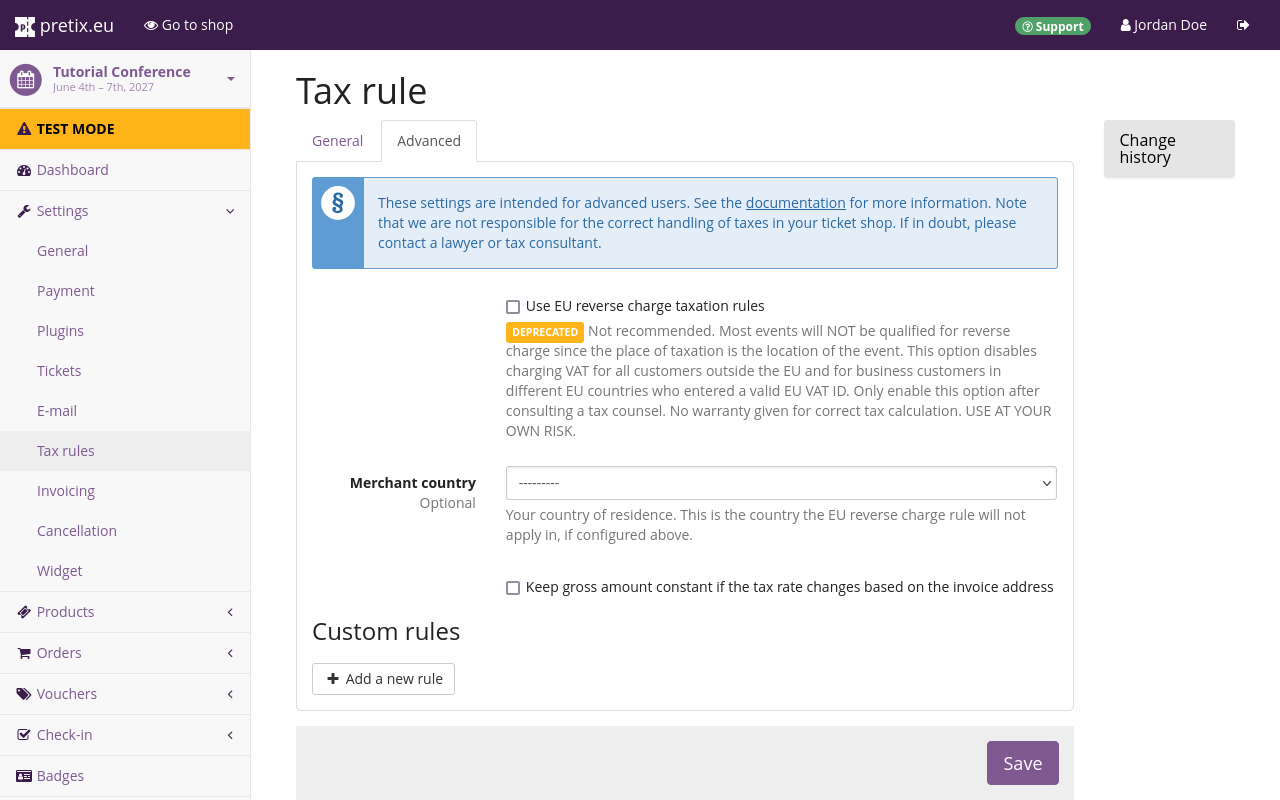
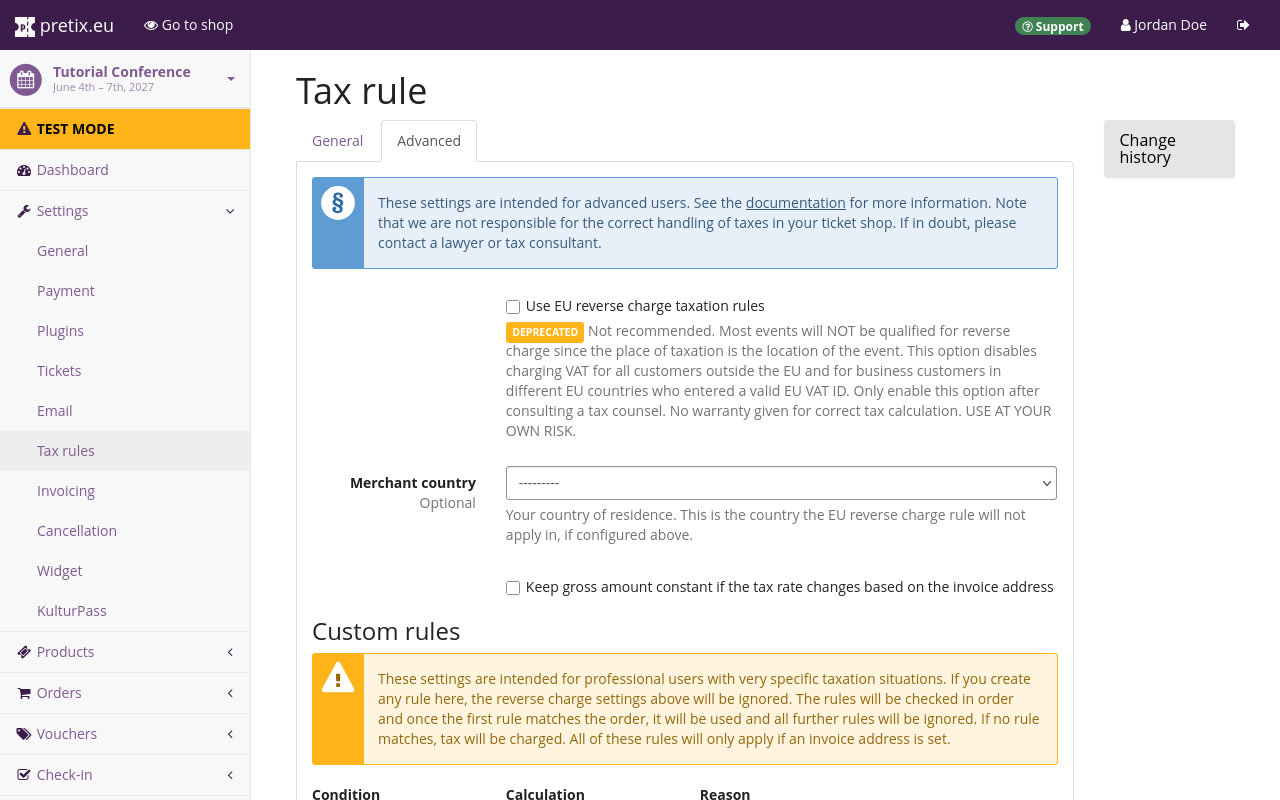
Update custom tax (#117)
* Update screenshot and article to reflect recent UI changes

* Update screenshot to reflect UI changes

* Correct information about reverse charge and tax rate field

* Improve article with suggestions from Vale

* Implement comments

diff --git a/docs/guides/taxes.md b/docs/guides/taxes.md
@@ -1,14 +1,17 @@
 # Taxes
 
-In most legislations, you are required to pay taxes for sales you make using pretix. 
+Most legislations require you to pay taxes on any sales you make using pretix. 
 pretix gives you the tools you need to calculate the appropriate tax for each sale. 
-You are prompted to create one simple tax rule during event creation, which may already be enough for the most simple use cases. 
+
+Taxes are configured on the event level. 
+During event creation, pretix prompts you to create one simple tax rule. 
+This may already be enough for the most straightforward use cases. 
 This article tells you how to create additional tax rules, how to configure complex custom tax rules, and how to assign them to products. 
 
 This article does **not** tell you what taxes are appropriate for your individual situation. 
 This depends on your local legislation, the type of your business, and a number of other factors. 
-The pretix documentation does not contain any information on the appropriate tax rates for your situation. 
-Please speak to a professional tax consultant before setting tax rates in your shop. 
+The pretix documentation does **not** contain any information on the appropriate tax rates for your situation. 
+Speak to a professional tax consultant before setting tax rates in your shop. 
 
 {% include "warning-tax-rules.md" %}
 
@@ -20,40 +23,45 @@ Taxes are handled on the event level, so you have to create an event first.
 
 pretix allows you to set up a tax rule for each tax rate that is relevant for your situation.
 Then, you assign that tax rule to each individual product. 
-If you are selling products with a 0% tax rate (such as [gift cards](../guides/gift-cards.md)), you still need to create a 0% tax rule first. 
+
+Tax rules are configured for each event individually. 
+There is no default set of tax rules. 
+You can only assign a tax rule to a product after you have created the tax rule. 
+This is true even for a tax rate of 0%. 
+If you are selling products with a 0% tax rate (such as [gift cards](../guides/gift-cards.md)), you still need to create a 0% tax rule first.
 
 When it comes to tax rules for free products, the only material difference is the tax rate printed on the invoice. 
 Create and assign the tax rule that you want to see on the invoice. 
-By default, pretix will not create invoices for orders that only contain free products. 
+pretix does not create invoices for orders that only contain free products. 
 
 ### Creating tax rules 
 
 In order to create a new tax rule, navigate to :navpath:Your event → :fa3-wrench: Settings → Tax rules:. 
-This page displays a list of all tax rules that have been created for the event. 
+This page displays a list of all tax rules that you have created for the event. 
 To create a new tax rule, click the :btn-icon:fa3-plus: Create a new tax rule: button. 
 
 ![Tax rule dialog. The 'General' tab is open, displaying options for official and internal name, tax rate, and whether to include the tax in the product price.](../assets/screens/tax/edit-rule.png "Tax rule advanced options" )
 
 This takes you to a dialog for creating the new tax rule. 
-On the "General" tab, choose an "Official name" that will be displayed to customers in your shop. 
+On the "General" tab, choose an "Official name" that your shop will display to customers. 
 Provide a translation for each language you are using. 
 
-Optionally, you may choose an "Internal name" that will only be displayed in the backend. 
+Optionally, you can choose an "Internal name" that the pretix backend will display to you and your team members. 
 
 Under "Tax rate", choose a rate in percent. 
-For example, if your products are sold with the regular value-added tax rate in Germany, set the "Tax rate" to 19.00%. 
+For example, if you sell products with the regular value-added tax rate in Germany, set the "Tax rate" to 19%. 
 
-The box next to "The configured product prices include the tax amount" determines whether the price of a product with this tax rule is handled as its net price (before tax) or its gross price (after tax). 
+The box next to "The configured product prices include the tax amount" determines whether to handle the price of a product with this tax rule as its net price (before tax) or its gross price (after tax). 
 
-By default, this box is checked, so all product prices with this tax rule are handled as gross prices (tax is included in the price). 
-This means that a product with a listed price of €10.00 and a tax rate of 19.00% has a net price of €8.40, €1.60 worth of value-added tax, and a total gross price of €10.00. 
+By default, this setting is active, so pretix handles all product prices with this tax rule as gross prices (the price includes tax). 
+This means that a product with a listed price of €10.00 and a tax rate of 19% has a net price of €8.40, €1.60 worth of value-added tax, and a total gross price of €10.00. 
 
-If you uncheck this box, all product prices with this tax rule are handled as net prices (tax is added on top of the listed price). 
-A product with a price of €10.00 and a 19.00% tax rule will have €1.90 worth of taxes added on top of the net price, leading to a gross price of €11.90. 
+If you uncheck the box, pretix handles all product prices with this tax rule as net prices (pretix adds tax on top of the listed price). 
+A product with a price of €10.00 and a 19% tax rule will have €1.90 worth of taxes added on top of the net price, leading to a gross price of €11.90. 
 This setting applies to all products that use this specific tax rule. 
 It does **not** apply to all products in your shop. 
 
-Click the :btn:Save: button once you are happy with your choices. 
+Click the :btn:Save: button to confirm your choices. 
 
 ### Custom tax rules
 
@@ -61,45 +69,56 @@ Click the :btn:Save: button once you are happy with your choices.
 
 !!! Note 
     Using custom tax rules is mutually exclusive with the EU reverse charge option. 
-    If you have defined one or more custom tax rules, then the EU reverse charge taxation rule will not apply, even if the box next to "Use EU reverse charge taxation rules" is checked. 
+    If you have defined one or more custom tax rules, then the EU reverse charge taxation rule will **not** apply, even if the box next to "Use EU reverse charge taxation rules" is checked. 
 
-pretix allows you to set "custom rules" if you have special requirements for the conditions in which VAT will or will not be charged. 
+pretix allows you to set "custom rules" if you have special requirements for the conditions in which to charge or not to charge value-added tax (VAT) on top of your sales. 
 These "custom rules" are subordinate to a tax rule and optional. 
 
 If you want to use custom rules specific to businesses with VAT IDs, you have to ask your customers for their VAT ID. 
 Navigate to :navpath:Your event → :fa3-wrench: Settings → Invoicing:. 
-Switch to the :btn:Address form: tab and make sure that the boxes next to "Ask for invoice address" and "Ask for VAT ID" are checked. 
+Switch to the :btn:Address form: tab and ensure that the boxes next to "Ask for invoice address" and "Ask for VAT ID" are checked. 
 Click the :btn:Save: button to confirm. 
 
 In order to set custom tax rules, navigate to :navpath:Your event → :fa3-wrench: Settings → Tax rules:. 
 Click the tax rule for which you want to set custom rules, switch to the :btn:Advanced: tab and click the :btn-icon:fa3-plus: Add a new rule: button. 
 
-In the first dropdown menu, select the country or territory where the custom rule will apply or select "Any country". 
+Under "Condition", in the first dropdown menu, select the country or territory where the custom rule will apply or select "Any country". 
 In the second menu, select the type of customer (individual, business, or business with valid VAT ID) or select "Any customer". 
 
-In the third dropdown menu, select the action to be taken under the specified conditions (country and customer). 
-You may select "Charge VAT" and then specify a "Deviating tax rate" in the input field below. 
-You may also select a different option and leave the field empty. 
+Under "Calculation", choose how pretix should calculate tax under the specified conditions (country and customer). 
+If you want to charge a tax rate specific to the conditions you defined, select "Charge VAT" and enter the tax rate in the input field below. 
+If you want to implement a reverse charge rule for the condition, select "Reverse charge" and leave the field below empty. 
+
+The other options allow you to charge **no** tax, to require manual approval, or to forbid sales altogether for the condition you defined. 
+You may leave the input field below empty in those cases. 
+
+Under "Reason", you can select a legal reason for the tax rule you put into place. 
+If the drop-down menu does **not** offer your specific reason, select a more general option. 
+You can use the "Text on invoice" fields to add an explanation for the taxes charged to your customers' invoices. 
 
 When a customer places an order, pretix will check the custom rules from top to bottom. 
-The first rule matching the order will be used to decide if and how VAT will be charged. 
+The first rule matching the order decides if and how pretix will charge VAT. 
 You can move the rules up or down the priority list using the arrow buttons :btn-icon:fa3-arrow-up:: and :btn-icon:fa3-arrow-down::. 
 
 ![Tax rule dialog. The 'Advanced' tab is open, displaying four custom rules, as described in the paragraph below.](../assets/screens/tax/custom-rules.png "Example for custom rules" )
 
-For illustrative purposes, let us assume an event hosted by a company in Germany which is eligible for EU reverse charge. 
-Such a company might first create a rule for "Germany", applying to "Any customer" the action "Charge VAT". 
-It might then create a rule for "European Union", applying to "Business with valid VAT ID" the action "Reverse charge". 
+For illustrative purposes, assume that a company in Germany is hosting an event which is eligible for EU reverse charge. 
+Such a company might first create a rule for "Germany", applying to "Any customer" the calculation "Charge VAT". 
+The tax rate would be 19.00% and the reason would be "Default tax code". 
+The company might then create a rule for "European Union", applying to "Business with valid VAT ID" the calculation "Reverse charge" with the tax rate field left empty and the reason set to "Reverse charge". 
 
-It might then create a rule for Austria, applying to "Any customer" the action "Charge VAT" with the deviating tax rate set to the VAT rate of the country in question. 
+It might then create a rule for Austria, applying to "Any customer" the calculation "Charge VAT" with the tax rate set to the VAT rate of the country in question. 
 It might then create the same rule for every single member state in the EU from Belgium to Sweden, always setting the appropriate deviating tax rate. 
-Finally, the company might create a rule for "Any country", applying to "Any customer" the action "Charge VAT". 
+Finally, the company might create a rule for "Any country", applying to "Any customer" the calculation "Charge VAT". 
 
 In this example, if a company located in Austria with a valid VAT ID places an order, this matches both the second and the third rule. 
-However, since custom rules are always checked top to bottom and only the first matching rule is applied, only the only the second rule from our list (Austria → "Any customer" → "Charge VAT") will be applied to the transaction. 
-The order in which rules are arranged here also ensures that no business from an EU country outside of Germany will be charged VAT on their transaction, as long as they provide a valid VAT ID while placing their order. 
+However, since pretix always checks custom rules top to bottom and only applies the first matching rule, the software will only apply the second rule from our list (European Union → "Business with valid VAT ID" → "Reverse charge") to the transaction. 
 
-The example case described above is for illustrating the use of the software only; it does not constitute legal advice. 
+The order in which the hypothetical company arranged the rules here also ensures that no business from an EU country outside of Germany will be charged VAT on their transaction, as long as they provide a valid VAT ID while placing their order. 
+
+!!! Note 
+    The example case described above is for illustrating the use of the software only. 
+    It does not constitute legal advice. 
 
 ### EU reverse charge
 
@@ -107,48 +126,46 @@ The example case described above is for illustrating the use of the software onl
     Reverse charge rules are **not applicable** to most events handled with pretix. 
     We therefore **strongly recommend not to enable this feature** if you do not have a specific reason to do so. 
     According to article 52 of the [VAT directive](https://eur-lex.europa.eu/legal-content/EN/TXT/PDF/?uri=CELEX:32006L0112&from=EN) (page 17), the place of supply is always the location of your event. 
-    Therefore, tax always has to be paid according to the laws of the country where the event is held, regardless of the location of the customer. 
+    Therefore, the applicable tax law will always be that of the country where the event is held, regardless of the location of the customer. 
 
 !!! Note 
     The EU reverse charge feature is deprecated. 
-    It will be removed in a future version of pretix. 
+    A future update of pretix will remove this feature. 
     Avoid using EU reverse charge if possible and define custom tax rules instead. 
-    That way, you can tailor taxation rules to your individual use case and make sure you are complying with all relevant laws. 
+    That way, you can tailor taxation rules to your individual use case and ensure you are complying with all relevant laws. 
 
 !!! Note 
     Using custom tax rules is mutually exclusive with the EU reverse charge option. 
     If you have defined one or more custom tax rules, then the EU reverse charge taxation rule will not apply, even if the box next to "Use EU reverse charge taxation rules" is checked. 
 
-"Reverse charge" is a rule in European Union VAT legislation that specifies how taxes are paid if the seller and buyer of a good reside in different EU countries. 
-If the buyer is registered as a VAT-paying business in their country, you charge them only the net price without taxes and state that the buyer is responsible for paying the correct taxes. 
+"Reverse charge" is a rule in European Union VAT legislation that specifies how to calculate taxes if the seller and buyer of a good reside in different EU countries. 
+If the buyer is registered as a VAT-paying business in their country, you charge them only the net price without taxes and state that the buyer is responsible for paying the appropriate taxes. 
 
 If you want to use reverse charge, you have to ask your customers for their VAT ID. 
 Navigate to :navpath:Your event → :fa3-wrench: Settings → Invoicing:. 
-Switch to the :btn:Address form: tab and make sure that the boxes next to "Ask for invoice address" and "Ask for VAT ID" are checked. 
+Switch to the :btn:Address form: tab and ensure that the boxes next to "Ask for invoice address" and "Ask for VAT ID" are checked. 
 Click the :btn:Save: button to confirm. 
 
 If you want to enable reverse charge, navigate to :navpath:Your event → :fa3-wrench: Settings → Tax rules:. 
 Select the tax rule for which you want to enable reverse charge and switch to the :btn:Advanced: tab. 
 Check the box next to "Use EU reverse charge taxation rules" and select your country from the "Merchant country" dropdown menu. 
 
-If you enable the reverse charge feature and specify your merchant country, then the following process will be performed whenever an order is placed:
+If you enable the reverse charge feature and specify your merchant country, then pretix will perform the following process whenever a customer places an order:
 
- 1. The customer is presented with net or gross prices, as configured for the applicable tax rule. 
+ 1. The shop presents the customer with net or gross prices as configured for the applicable tax rule (on the :btn:General: tab). 
  2. The customer adds a product to their cart. 
     The shop displays gross prices including taxes. 
  3. In the "Your information" step, the customer can enter their "Invoice information". 
-    Tax will be removed from the price if one of the following statements is true:
-    - The invoice address is in a non-EU country.
-    - The invoice address is a business address in an EU-country different from the merchant country **and** has a valid VAT ID.
-      In this case, a reverse charge note will be added to the invoice. 
+    If the invoice address is in a non-EU country, then pretix will remove the tax from the price. 
+    If the invoice address is a business address in an EU country other than the merchant country **and** has a valid VAT ID, then pretix will remove the tax from the price and add a reverse charge note to the invoice. 
 
-VAT IDs are validated against the EU's validation web service when the customer clicks the "Continue" button. 
+pretix validates VAT IDs against the EU validation web service when the customer clicks the "Continue" button. 
 If the service is unavailable at that moment, then the customer has to pay VAT tax and reclaim the taxes with their government at a later point. 
 
-If your and your buyer's EU countries use different currencies, the invoice will include the total and VAT amount in the local currency of the buyer in addition to your event's currency. 
+If your and your buyer's EU countries use different currencies, the invoice will include the total and VAT amount in both your event's currency and the local currency of the buyer. 
 
 For existing orders, a change of the invoice address will **not** result in an automatic change of taxes. 
-If you want to trigger this manually, navigate to :navpath:Your event → :fa3-shopping-cart: Orders → All orders: and click one of the orders in question. 
+In order to trigger such a change manually, navigate to :navpath:Your event → :fa3-shopping-cart: Orders → All orders: and click one of the orders in question. 
 Click the :btn:Check: button next to the VAT ID. 
 Then, click the :btn-icon:fa3-edit: Change products: button. 
 Under the "Other operations" heading, select one of the options next to "Recalculate taxes". 
@@ -156,26 +173,26 @@ Confirm your choices by clicking the :btn:Perform changes: button.
 
 !!! Note 
     Modifying tax status back and forth may introduce rounding errors of up to one cent from the intended price. 
-    This is unavoidable due to the flexible nature in which prices are being calculated. 
+    This is unavoidable due to the flexible manner of price calculation. 
 
 ### Assigning tax rules 
 
 ![Create product dialog. The last option is a dropdown menu labeled 'Sales tax'. The current selection is 'No taxation'. At the bottom of the page, there is a button labeled 'Save and continue with more settings'.](../assets/screens/tax/create-product.png "Create product dialog" )
 
-If you want to assign a tax rule to a new product you are creating, navigate to :navpath:Your event → :fa3-ticket: Products → Products:. 
+If you want to assign a tax rule to a **new product** you are creating, navigate to :navpath:Your event → :fa3-ticket: Products → Products:. 
 Click the :btn-icon:fa3-plus: Create a new product: button. 
 Under the "Price settings" subheading, click on the "Sales tax" drop-down menu and select the tax rule that you want to assign to the product. 
-This list will use the internal name you specified on the tax rules settings page and the specified percentage. 
+This list will display the internal name you specified on the tax rules settings page and the specified percentage. 
 Once you have made your selection, click the :btn:Save and continue with more settings: button. 
 
 <br>
 
 ![Edit product dialog. The 'Price' tab is open. The second option is a dropdown menu labeled 'Sales tax'. The current selection is 'VAT (incl- 19.00% VAT)'. At the bottom of the page, there is a button labeled 'Save'.](../assets/screens/tax/edit-product.png "Edit product dialog" )
 
-If you want to assign a tax rule to an existing product, navigate to :navpath:Your event → :fa3-ticket: Products → Products:. 
+If you want to assign a tax rule to an **existing product**, navigate to :navpath:Your event → :fa3-ticket: Products → Products:. 
 Click the :btn-icon:fa3-edit:: edit button next to the product in question and switch to the :btn:Price: tab. 
 In the "Sales tax" drop-down menu, select the tax rule that you want to assign to the product. 
-This list will use the internal name you specified on the tax rules settings page and the specified percentage. 
+This list will display the internal name you specified on the tax rules settings page and the specified percentage. 
 Once you have made your selection, click the :btn:Save: button. 
 
 #### Mixed taxation (tax included in price)
@@ -254,8 +271,8 @@ Then, switch to the :btn:Price: tab and enter the sum of those amounts in the "D
 
 ### Appropriate tax rule does not appear in the drop-down menu
 
-If you are trying to assign a tax rate to a product, but the appropriate tax rate is not displayed in the "Sales tax" drop-down menu, then you have to create that tax rate first. 
-Follow the instructions in the section on [creating tax rules](taxes.md#creating-tax-rules) to create a tax rule with the name and rate that you need. 
+If you are trying to assign a tax rate to a product, but the "Sales tax" drop-down menu does **not** display the appropriate tax rate, then you have to create that tax rate first. 
+Follow the instructions in the section [Creating tax rules](taxes.md#creating-tax-rules) to create a tax rule with the name and rate that you need. 
 After you have done that, edit your product. 
 The tax rate will now appear in the "Sales tax" drop-down menu and you will be able to assign it. 
 
